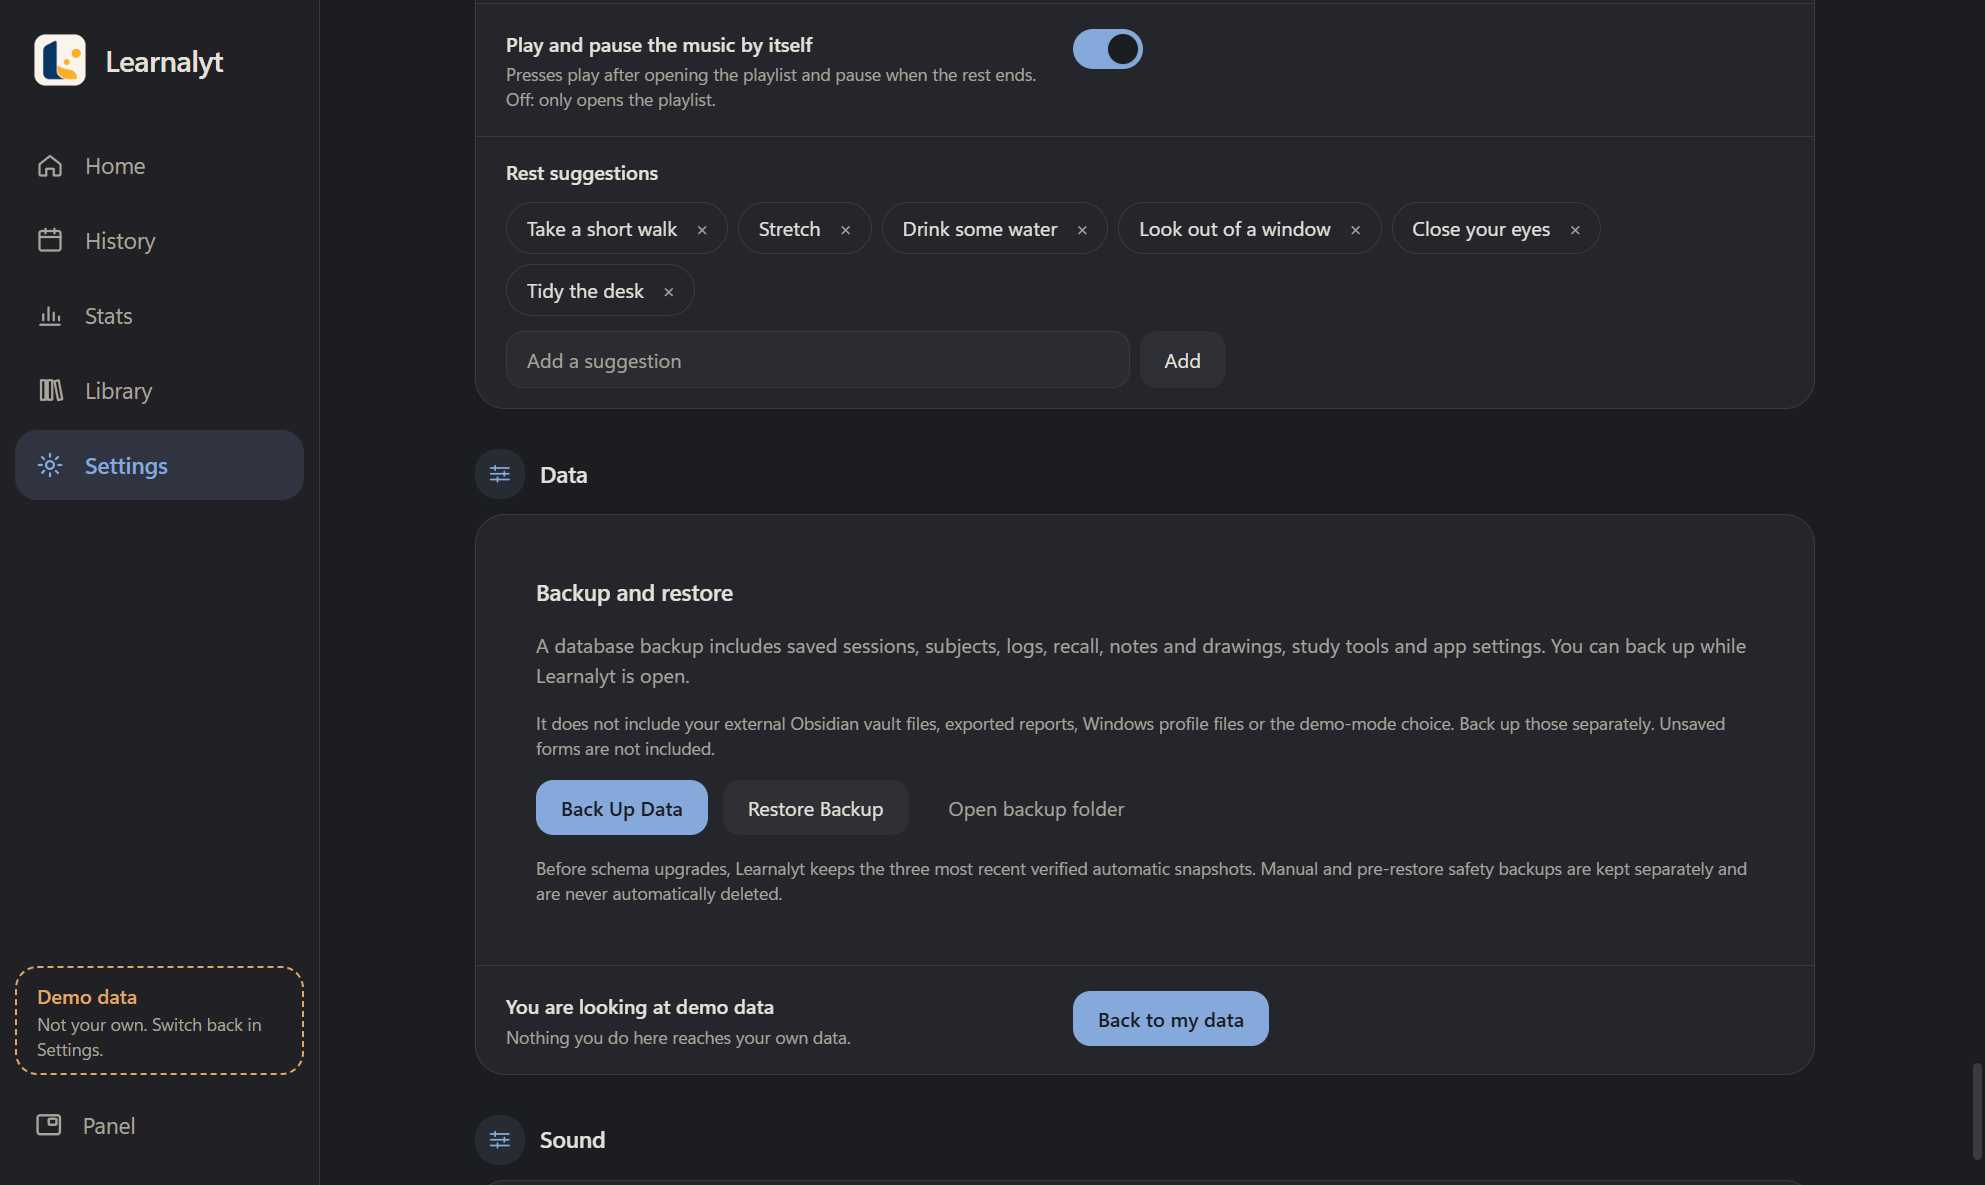
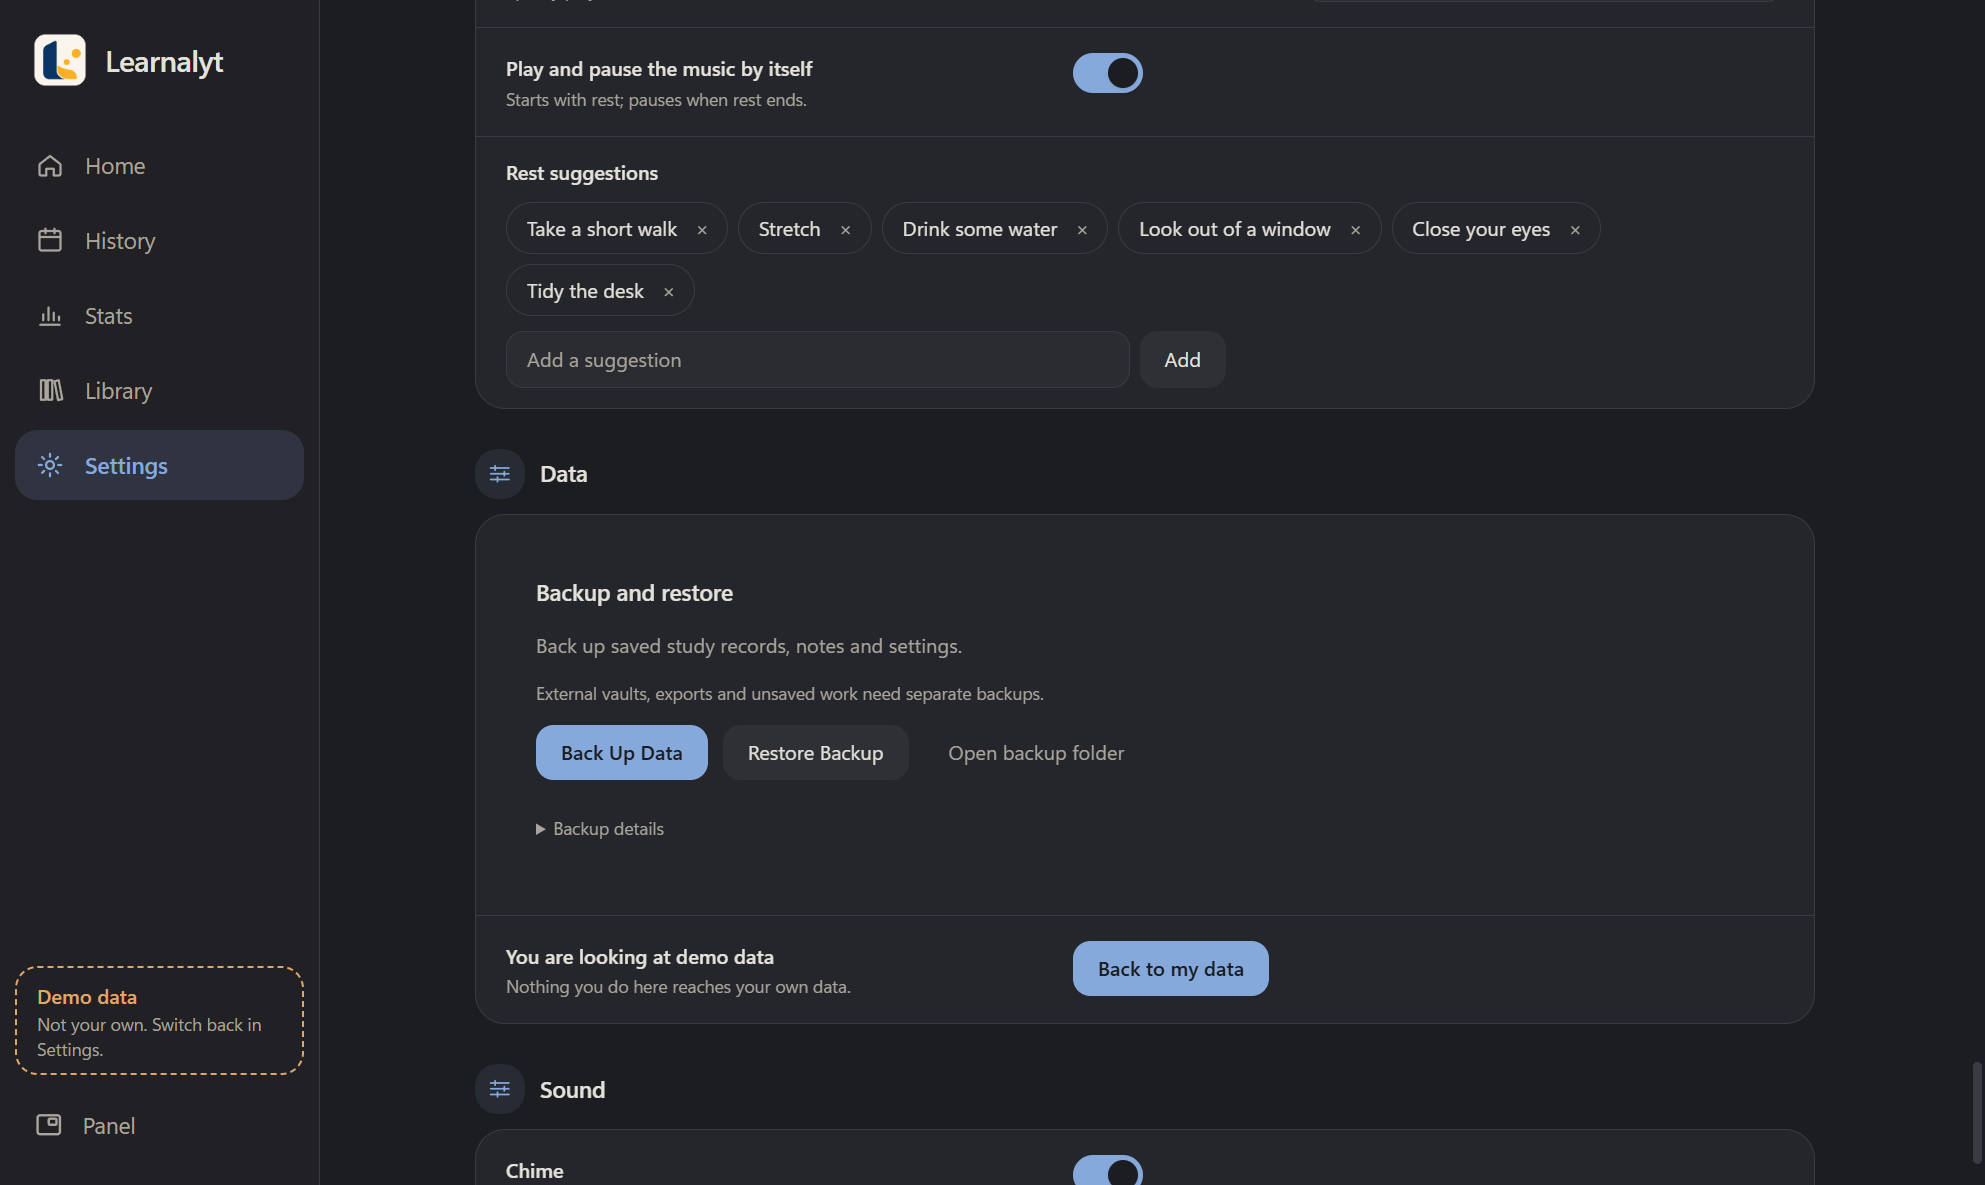
Refresh screenshots and guide for the simpler Learnalyt interface

diff --git a/USER_GUIDE.md b/USER_GUIDE.md
@@ -50,7 +50,7 @@ Press **Start**. With preparation enabled, a separate preparation sheet opens be
 
 *Checks are optional and transient. They are not stored as completed habits.*
 
-Tick anything useful and press **Ready to start**. **Cancel** abandons the unstarted preparation while preserving the plan/goal. The timer starts only after Ready. The two defaults are phone away/silenced and distracting apps/tabs closed. Up to five extra checks appear only when your recent records show repeated positive focus or recall patterns for the selected subject and activity, such as a particular drink or study place. Each explains its evidence. New or sparse histories show only the defaults. Water is not a fixed reminder.
+Tick anything useful and press **Ready to start**. **Cancel** abandons the unstarted preparation while preserving the plan/goal. The timer starts only after Ready. The two defaults are phone away/silenced and distracting apps/tabs closed. Up to five extra checks appear only when your recent records show repeated positive focus or recall patterns for the selected subject and activity, such as a particular drink or study place. A blue ✦ For you marker identifies personal suggestions; select it to see the evidence. New or sparse histories show only the defaults. Water is not a fixed reminder.
 
 Personal checks use active categorical setup/detail choices from the last 90 days, exclude untouched answers and mixed-subject sessions, and need comparable records on both sides across multiple days with the direction repeated over time. They describe associations, not proof of cause or health advice. Checks do not record answers, change your planned setup or log a drink automatically. Settings can disable preparation; older custom checklist text is retained in saved settings. General learning tips rotate separately from these personal checks.
 
@@ -64,7 +64,7 @@ Keep Learnalyt within reach while you work in another app.
 | --- | --- |
 | ![Floating ready panel](screenshots/floating-ready.png) | ![Running floating timer](screenshots/floating-timer.png) |
 
-Press **Start** to prepare, then **Ready to start** to begin timing. Use **Distracted**, **Switch** and **Finish** from the running panel.
+Press **Start** to prepare, then **Ready to start** to begin timing. Use **Distracted**, **Switch** and **Finish** from the running panel. Its thought icon parks a thought; the main study screen keeps only the three session controls.
 
 ## During study
 

diff --git a/RELEASE_NOTES.md b/RELEASE_NOTES.md
@@ -1,5 +1,7 @@
 # Learnalyt 0.1.0-beta.1
 
+Simpler screens, compact ✦ For you preparation suggestions with optional evidence, and a fully visible study tip. The main timer keeps three controls; thought capture remains in the floating timer.
+
 Private beta candidate prepared for an unpublished draft prerelease. Public distribution is not approved.
 
 Home keeps a compact year heatmap at the bottom of the visible left column. Flexible space above it gives way as the subject list grows, pushing the heatmap down naturally. Preparation has two fixed reminders and up to five optional checks supported by repeated recent records for the selected subject and activity. Sparse histories show only the defaults.
